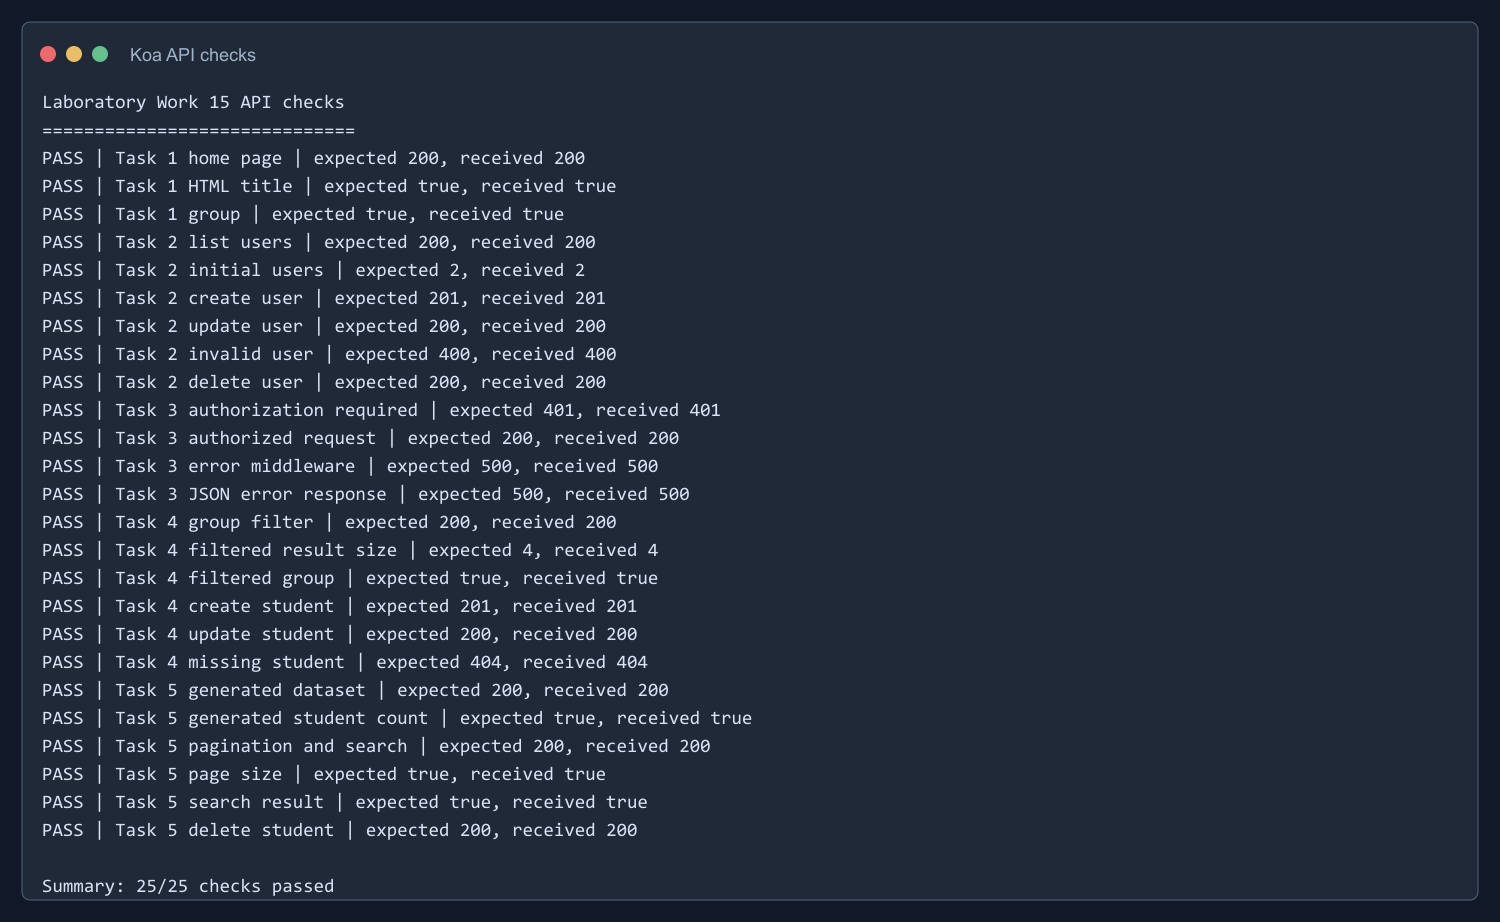
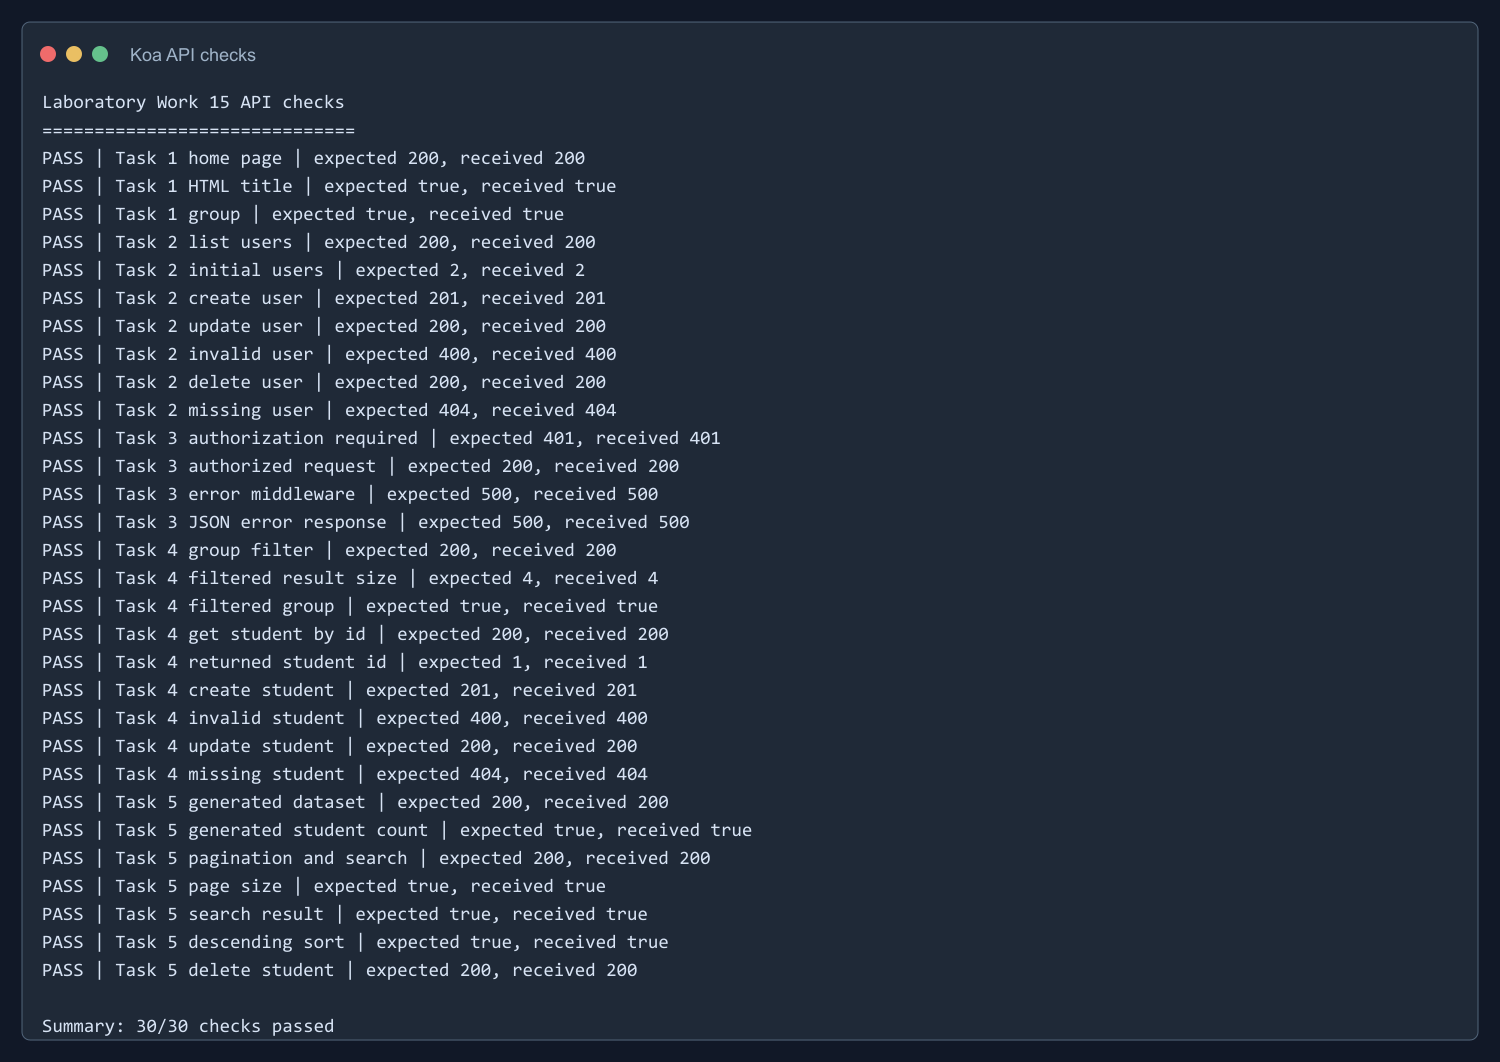
Improve API checks and update dependencies

Changed region(s): [[0.0307, 0.0, 0.9813, 1.0]]

diff --git a/test-api.js b/test-api.js
@@ -89,6 +89,11 @@ async function runChecks() {
 
     const deletedUser = await request('DELETE', `/api/users/${createdUser.payload.id}`);
     check('Task 2 delete user', deletedUser.response.status, 200);
+    const missingUser = await request('PUT', '/api/users/9999', {
+      name: 'No User',
+      group: 'BBMO-01-23'
+    });
+    check('Task 2 missing user', missingUser.response.status, 404);
 
     const unauthorized = await request('GET', '/protected');
     check('Task 3 authorization required', unauthorized.response.status, 401);
@@ -103,12 +108,23 @@ async function runChecks() {
     check('Task 4 filtered result size', filtered.payload.students.length, 4);
     check('Task 4 filtered group', filtered.payload.students.every((student) => student.group === 'BBMO-01-23'), true);
 
+    const existingStudent = await request('GET', '/students/1');
+    check('Task 4 get student by id', existingStudent.response.status, 200);
+    check('Task 4 returned student id', existingStudent.payload.id, 1);
+
     const createdStudent = await request('POST', '/students', {
       name: 'New Student',
       group: 'BBMO-01-23',
       course: 2
     });
     check('Task 4 create student', createdStudent.response.status, 201);
+
+    const invalidStudent = await request('POST', '/students', {
+      name: 'Invalid Student',
+      group: 'BBMO-01-23',
+      course: 7
+    });
+    check('Task 4 invalid student', invalidStudent.response.status, 400);
 
     const updatedStudent = await request('PUT', `/students/${createdStudent.payload.id}`, { course: 3 });
     check('Task 4 update student', updatedStudent.response.status, 200);
@@ -124,6 +140,9 @@ async function runChecks() {
     check('Task 5 pagination and search', paged.response.status, 200);
     check('Task 5 page size', paged.payload.students.length <= 5, true);
     check('Task 5 search result', paged.payload.total > 0, true);
+    check('Task 5 descending sort', paged.payload.students.every((student, index, page) => (
+      index === 0 || page[index - 1].name.localeCompare(student.name) >= 0
+    )), true);
 
     const deletedStudent = await request('DELETE', `/students/${createdStudent.payload.id}`);
     check('Task 5 delete student', deletedStudent.response.status, 200);
